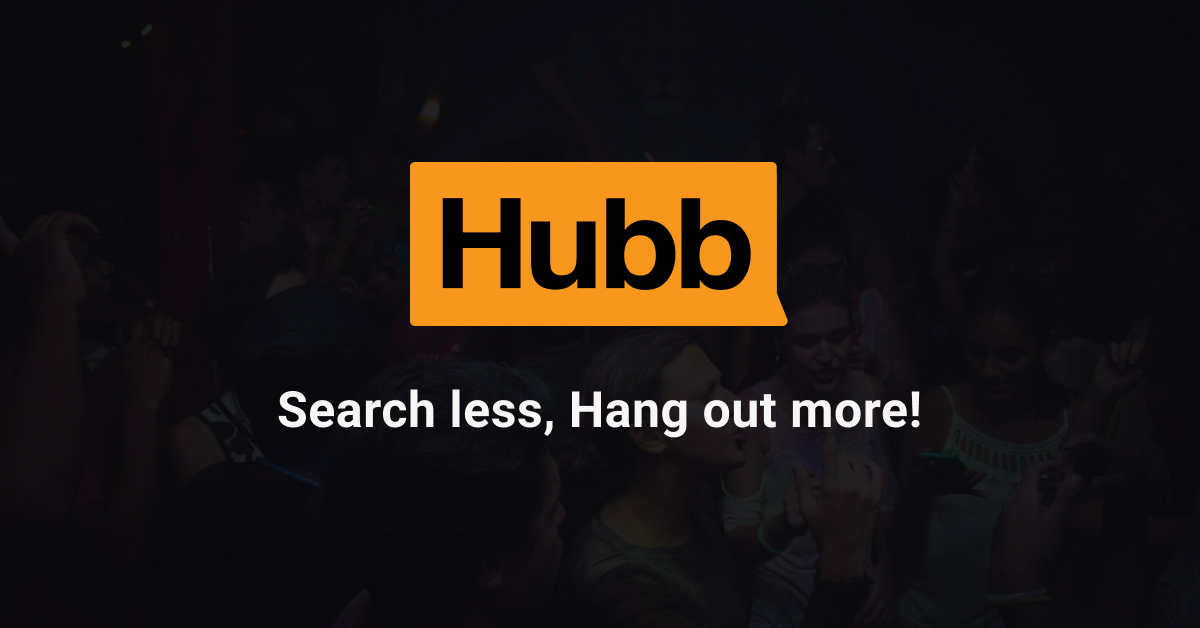
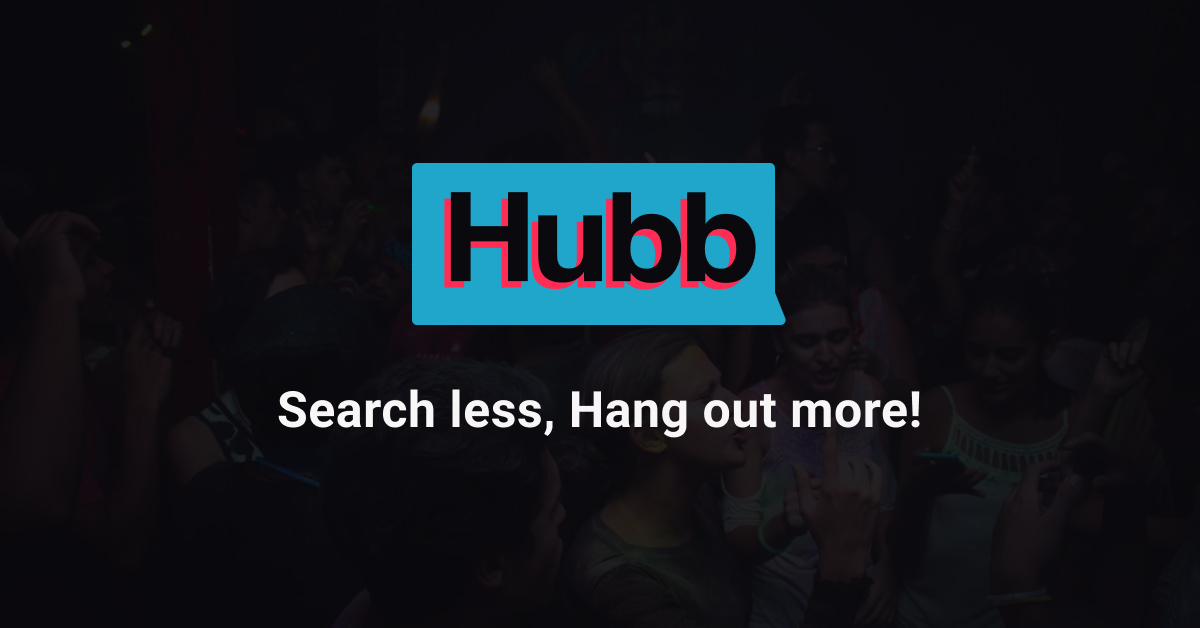
[update]  system design :art:

Changed region(s): [[0.3392, 0.242, 0.6783, 0.5446]]

diff --git a/src/scss/components/_hero.scss b/src/scss/components/_hero.scss
@@ -42,11 +42,20 @@
   // .hero__title
   &__title {
     font-family: var(--secondary-font);
+    font-weight: bolder;
+    font-size: 4rem;
+    margin: auto;
+
+    @include mq(m) { font-size: 5rem; }
+  }
+
+  // .hero__text
+  &__text {
+    font-family: var(--secondary-font);
     font-weight: lighter;
     font-size: 2.2rem;
-    margin: 3rem 0;
 
-    @include mq(m) { font-size: 3rem; margin: 5rem auto; }
+    @include mq(m) { margin: 5rem auto; }
     @include mq(l) { width: 70%; }
   }
 

diff --git a/src/scss/settings/_variables.scss b/src/scss/settings/_variables.scss
@@ -8,7 +8,7 @@
 
   --primary-color:    #0A090D;
   --secondary-color:  #F8F6F6;
-  --tertiary-color:   #F7971D;
+  --tertiary-color:   #20A6CA;
   --quaternary-color: #FE2C55;
 
   --text-color-black: var(--primary-color);
